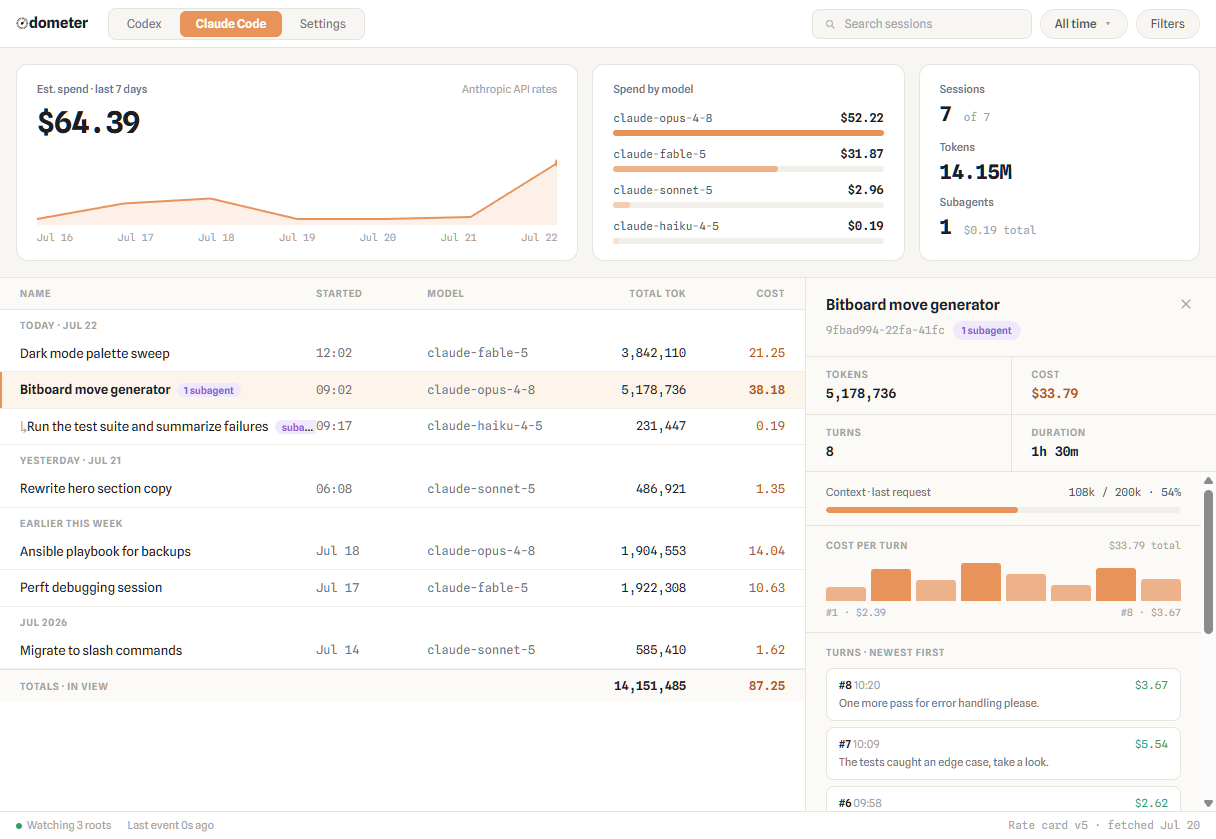
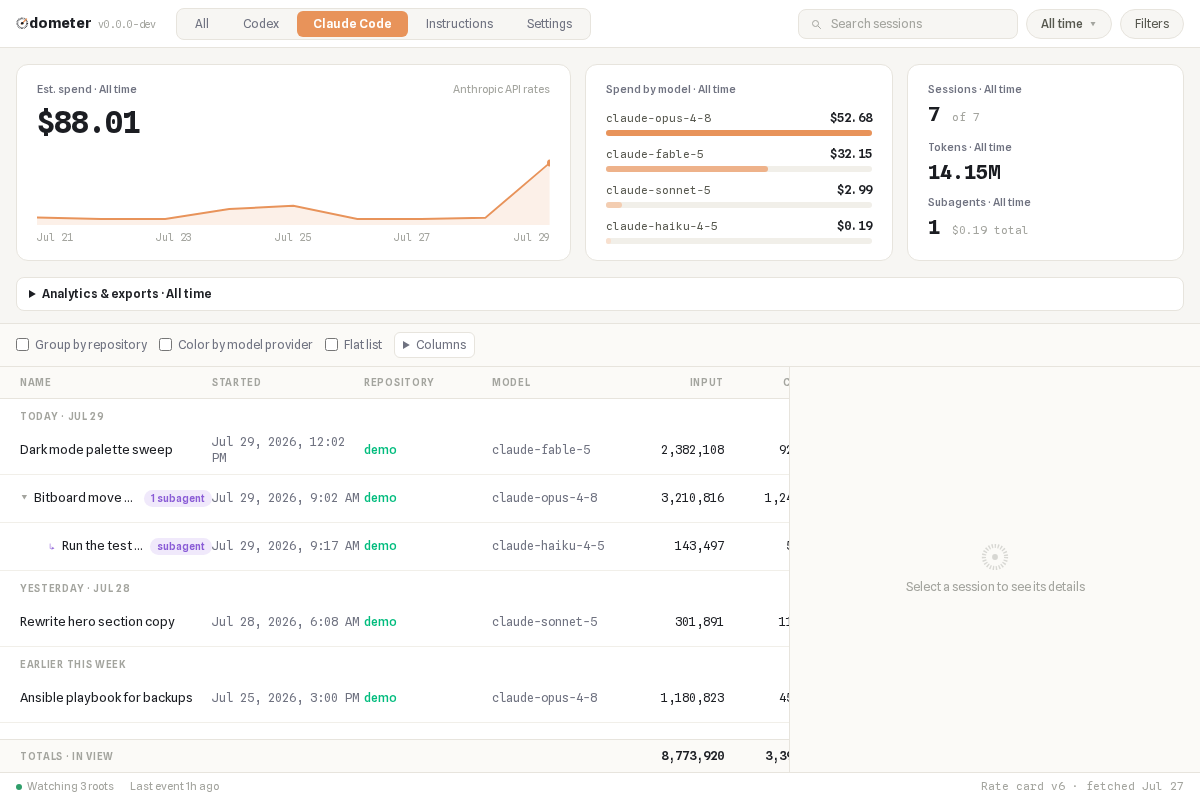
Bring the README up to date with what actually ships (#126)
The screenshots were from 22 July and predate the repository column, the
pricing provenance badges, the third provider, and the tool-attribution
panel. Regenerated from the committed visual baselines, which are the
pinned container's own output, so the docs match what CI verifies.

Corrections, each checked against the code rather than assumed:

- Cache writes ARE modeled now. The README still said the 1.25x premium
  "isn't modeled, so estimates run slightly low", which would have made a
  reader distrust correct numbers.
- Gemini CLI exists. The intro, the provider bullet, and the first-run
  paths all described two providers.
- Node's floor is 22.22.2, not 22. CI floats on the newest 22.x and so
  never warns about an older local Node.
- The release recipe named three version files; the bump script rewrites
  five, and preflight checks only three, which is why the two lockfiles
  can drift.

Additions: project analytics, quota windows and budgets, tool/MCP/shell/
language/context attribution, provider diagnostics, and the background
history migration on first launch after a schema change.

The privacy section now documents that the durable history database
retains parsed message text. That follows the decision to amend #38's
acceptance criterion rather than change the behavior -- the retention is
deliberate, so it belongs where users read it, not only in an issue.

Deliberately NOT claimed: history retention after a transcript is
[…]

diff --git a/README.md b/README.md
@@ -6,7 +6,7 @@
 [![License: MIT](https://img.shields.io/badge/license-MIT-blue.svg)](LICENSE)
 ![Platforms](https://img.shields.io/badge/platform-Windows%20%7C%20macOS%20%7C%20Linux-lightgrey)
 
-**How far have your AI agents driven?** Odometer is a local desktop dashboard for your AI coding-agent usage. It reads the session files that [Codex](https://openai.com/codex) (OpenAI's coding agent) and [Claude Code](https://claude.com/claude-code) already write to your machine and turns them into a searchable, sortable view of every session: what you asked, which models ran, how many tokens they consumed, and what that usage costs.
+**How far have your AI agents driven?** Odometer is a local desktop dashboard for your AI coding-agent usage. It reads the session files that [Codex](https://openai.com/codex) (OpenAI's coding agent), [Claude Code](https://claude.com/claude-code), and [Gemini CLI](https://github.com/google-gemini/gemini-cli) already write to your machine and turns them into a searchable, sortable view of every session: what you asked, which models ran, how many tokens they consumed, and what that usage costs.
 
 ![Codex tab with the session list, cost overview, and a session open in the detail pane](docs/screenshots/codex-tab.png)
 
@@ -14,9 +14,12 @@ Everything happens on your machine. Odometer never uploads, phones home, or send
 
 ## What you can see
 
-- **Every session, across harnesses** — Codex, Claude Code, and an All tab that keeps credits and USD estimates explicitly separated.
+- **Every session, across providers** — Codex, Claude Code, Gemini CLI, and an All tab that keeps credits and USD estimates explicitly separated.
+- **Per-project spend** — working directories resolve to a stable project identity (repository root, workspace root, provider project id, or the path itself), so linked worktrees collapse into one project while nested repos and monorepo subfolders stay distinct. Sort, group, and filter by it.
+- **Quota windows and budgets** — subscription and credit windows with reset timing, pace, and projected run-out, plus soft per-provider and per-project budgets with local alerts. Windows with unlike units are never summed together, and a projection is suppressed rather than guessed when the evidence is too thin.
+- **Where tool overhead goes** — calls attributed by origin (core, MCP, provider), MCP server, allowlisted shell-command family, language, and context source, with exportable totals.
 - **Tokens where they went** — input, cached, output, and reasoning tokens per session, per model, and per turn.
-- **What it costs** — Codex sessions show plan credits *and* an informational "what would this cost at OpenAI API rates" estimate; Claude Code sessions show Anthropic API-rate estimates. Rates live in an editable rate card.
+- **What it costs** — Codex sessions show plan credits *and* an informational "what would this cost at OpenAI API rates" estimate; Claude Code and Gemini CLI sessions show API-rate estimates in USD. Rates live in an editable rate card, and every priced figure carries its provenance: priced directly, resolved through a model alias, fallback-priced, estimated, or explicitly unpriced.
 - **Turn-by-turn detail** — click any session for its full story: prompts, replies, per-turn tokens and cost, context-window fill, and a tokens-over-time sparkline.
 - **Subagents included** — background agents spawned by your sessions appear as their own badged, filterable entries linked to their parent.
 - **Live** — sessions update in the list while your agents are still running.
@@ -25,6 +28,7 @@ Everything happens on your machine. Odometer never uploads, phones home, or send
 - **Local efficiency signals** — normalized tool metrics, deterministic task categories, prioritized optimization opportunities with turn-level evidence and next actions, configuration-change correlations, and opt-in local Git outcome scans never retain raw tool arguments or output.
 - **Tool impact comparison** — choose any observed tool provider or individual tool and compare turns where it was used with turns where it was not observed; when enough data exists, Odometer matches the baseline by harness, model, task category, and nearby time before comparing tokens and elapsed time.
 - **Optional instruction inventory** — enable a hideable Instructions tab to find `AGENTS.md` and `CLAUDE.md` files across global, observed-project, and explicitly configured roots; review nested effective chains, deterministic warning signals, sanitized Markdown previews, and linked before/after usage evidence. Discovery is read-only, cancellable, progress-visible, bounded, and off by default.
+- **Provider diagnostics** — one report per provider covering configured roots, files discovered and parsed, parse failures, cache and history health, pricing coverage, and quota-source status. Each provider resolves to `ready`, `degraded`, `unsupported`, or `not_detected` with a reason. The local view shows your exact paths; the exportable bug-report JSON redacts them by default.
 - **Opt-in performance evidence** — default-off local timings cover startup, scans/cache/parsers, analytics, exports, and UI work; logs are size-bounded and exportable as JSONL or CSV.
 - **Opt-in turn receipts** — add a reversible Codex or Claude Code `Stop` hook that shows the completed turn's tokens and estimated cost inside the harness. Codex receipts also preserve provider-reported quota precision and label per-turn changes as account-wide observations.
 - **Quick glance** — the tray menu mirrors today's tokens, Codex credits/API estimate, and Claude USD with native show, hide, settings, and quit controls.
@@ -32,6 +36,10 @@ Everything happens on your machine. Odometer never uploads, phones home, or send
 
 ![Claude Code tab with subagent sessions and per-model spend](docs/screenshots/claude-code-tab.png)
 ![Session detail pane in dark mode showing per-turn costs and the turn history](docs/screenshots/session-details.png)
+
+Dimensions a provider cannot supply say so, rather than reporting zero. Here the Gemini CLI tab shows real language and context-source totals beside an explicit "Unavailable" for MCP servers and shell command families, and flags that one model fell back to an estimated rate:
+
+![Gemini CLI tab showing tool attribution, with MCP and shell dimensions marked unavailable and language and context totals populated](docs/screenshots/tool-attribution.png)
 
 ## Install
 
@@ -53,8 +61,13 @@ If Codex or Claude Code is installed with default paths, there is nothing to con
 
 - Codex: `$CODEX_HOME` if set, otherwise `~/.codex` (`sessions/`, `archived_sessions/`, `session_index.jsonl`)
 - Claude Code: `$CLAUDE_CONFIG_DIR/projects` if set, otherwise `~/.claude/projects`
+- Gemini CLI: `~/.gemini/tmp`. Gemini CLI documents no environment override for this root, so Odometer honors none rather than inventing one. Only the JSONL session format (CLI 0.39 and later) is read; the older single-JSON-document format is skipped because it cannot be parsed incrementally without risking a partial read.
 
 Custom locations can be added under **Settings → Watched roots**.
+
+Cursor, GitHub Copilot, and OpenCode are **not** supported. Each was evaluated and rejected on evidence rather than effort: Cursor reports no real token counts in recent versions, Copilot's only source with an input/output split is an internal trace database that is not always present, and OpenCode spreads a session across many files in a shape the incremental parser cannot follow. Odometer would have to estimate, and an estimate presented as a measurement is worse than no support.
+
+On first launch after an upgrade that changes the history schema, the window opens immediately and analytics report that history is still preparing while the database migrates in the background. A large history can take a while; the app stays usable and never reports partial totals as if they were complete.
 
 The separate **Settings → Instruction inventory** section accepts project or project-container roots and lets each root scan only that folder or include subfolders. Recursive discovery skips common dependency, generated-output, and VCS directories instead of crawling every file on the machine.
 
@@ -98,7 +111,9 @@ when disabled, the ordinary watcher/UI path is unchanged and no receipt helper r
 
 ## Privacy
 
-Session files contain your prompts, the agents' replies, tool output, and local file paths. Odometer processes them entirely locally and stores nothing outside your machine: settings and rate overrides live under the OS config directory, while the scan cache and redacted configuration-event hashes live under the OS cache/data directories. Tool telemetry stores hashed target identities and byte counts, never raw arguments or output. Optional application performance tracking is off by default and stores only operation timings, success flags, and aggregate counts — never prompts, session IDs, paths, commands, tool arguments, or output. Its rotating local JSONL can be exported from Settings. Treat the session files themselves as sensitive — don't share or commit them.
+Session files contain your prompts, the agents' replies, tool output, and local file paths. Odometer processes them entirely locally and stores nothing outside your machine: settings and rate overrides live under the OS config directory, while the scan cache, the durable history database, and redacted configuration-event hashes live under the OS cache/data directories. Tool telemetry stores hashed target identities and byte counts, never raw arguments or output.
+
+**The durable history database keeps parsed message text.** Odometer stores a snapshot of each parsed session so analytics survive restarts and stay fast, and that snapshot includes the first user message and each turn's user message and last agent message — the same text that backs session names and search. It is local application data and inherits the same no-upload, no-log handling as the transcripts it was parsed from, but it is worth knowing it exists: treat that database as sensitive in the same way you treat the session files themselves. Aggregates, exports, diagnostics, and performance logs exclude prompt and reply text, raw tool arguments and output, credentials, and unrestricted paths. Optional application performance tracking is off by default and stores only operation timings, success flags, and aggregate counts — never prompts, session IDs, paths, commands, tool arguments, or output. Its rotating local JSONL can be exported from Settings. Treat the session files themselves as sensitive — don't share or commit them.
 
 When turn receipts are enabled, Odometer stores one bounded local health record per harness: the
 last run time, success state, and rendered receipt or a sanitized error category. It does not store
@@ -109,8 +124,10 @@ the hook's session ID, transcript path, prompt, or response.
 Costs are computed from token counts against a bundled, editable rate card (per one million tokens):
 
 - **Codex** usage is priced in plan credits per the OpenAI Codex rate card, with documented Fast-mode multipliers applied per event. A second column estimates the same usage at OpenAI **API** USD rates — informational if you're on a subscription, but useful for comparison.
-- **Claude Code** usage is priced at Anthropic API USD rates. Cache reads are billed at the cached-input rate; cache *writes* (1.25×) aren't modeled, so estimates run slightly low. Thinking tokens are billed as ordinary output, matching Anthropic's billing.
-- Unknown models fall back to a configurable per-harness fallback rate and are flagged in the UI. Models explicitly listed as unpriced are excluded and named instead of being assigned an unrelated fallback price.
+- **Claude Code** usage is priced at Anthropic API USD rates. Cache reads and cache *writes* are two disjoint subsets of input with their own rates — the write premium (1.25×) is now priced rather than folded into ordinary input. Thinking tokens are billed as ordinary output, matching Anthropic's billing.
+- **Gemini CLI** usage is priced at Gemini API USD rates; thinking tokens bill at the output rate. Gemini 2.5 Pro is deliberately left unpriced because its published rate depends on a prompt-size threshold this flat per-model table cannot express — it is fallback-priced and flagged rather than guessed.
+- A model with no published rate for a dimension prices that dimension at the ordinary input rate and marks the result estimated. It is never silently priced at zero, which would understate the total while still looking like a number.
+- Unknown models fall back to a configurable per-provider fallback rate and are flagged in the UI. Models explicitly listed as unpriced are excluded and named instead of being assigned an unrelated fallback price.
 
 Edit any rate under **Settings → Rate card**; your overrides persist and automatically inherit newly bundled models on upgrades.
 
@@ -122,7 +139,7 @@ Built with Tauri 2 + Rust (filesystem, parsing, IPC) and Svelte 5 + TypeScript +
 
 Visual regression coverage and baseline-update guidance lives in [docs/VISUAL_TESTING.md](docs/VISUAL_TESTING.md).
 
-Prerequisites: Node.js 22, Rust 1.95 or later, and the [Tauri 2 platform prerequisites](https://v2.tauri.app/start/prerequisites/).
+Prerequisites: Node.js 22.22.2 or later (see `engines` in `package.json` and `.nvmrc` — jsdom 30 raised the floor, and CI's floating `node-version: 22` will not warn you if your local Node is older), Rust 1.95 or later, and the [Tauri 2 platform prerequisites](https://v2.tauri.app/start/prerequisites/).
 
 ```powershell
 npm ci
@@ -142,6 +159,7 @@ npm run tauri dev
 | `npm run visual:update` | Review and intentionally update Playwright baselines (Linux only; use the pinned container elsewhere) |
 | `npm run visual:gallery` | Build an HTML gallery from current Playwright screenshots |
 | `npm run visual:docs:update` | Copy selected current images into `docs/screenshots/` (add `-- --force` to replace reviewed files) |
+| `npm run version:bump -- <major\|minor\|patch\|X.Y.Z>` | Rewrite all five version manifests together and verify they agree |
 
 The docs screenshot command is an explicit local action: it copies reviewed images from `output/playwright/current`, refuses to overwrite without `--force`, and is never run automatically in CI.
 
@@ -169,10 +187,17 @@ src/                     Svelte frontend
   lib/sessionProjection.ts Shared filter, pricing, model-comparison, and export projection
 src-tauri/
   src/                   Rust parsers, telemetry, correlation, config events, git outcomes, tray, and commands
+    history_store.rs     Durable SQLite history: facts, hour-bucket rollups, migrations
+    provider.rs          Provider registry, adapter contract, capability flags
+    project_identity.rs  Working directory to stable project identity
+    quota.rs             Quota windows, pace, budgets, alerts
+    diagnostics.rs       Per-provider health and data-quality report
+    paths.rs             Shared path normalization (Windows verbatim and UNC)
   tests/                 Parser integration tests and fixtures
   capabilities/          Tauri permissions
   rates.json             Bundled rate card
   tauri.conf.json        Desktop build/window/updater configuration
+docs/adr/                Architecture decision records (sync design gate)
 ```
 
 Generated schemas under `src-tauri/gen/schemas/` are not hand-edited. Both lockfiles stay committed.
@@ -188,7 +213,13 @@ git tag -s vX.Y.Z -m "Odometer vX.Y.Z" main  # annotated tag signed with your Gi
 git push origin vX.Y.Z                        # triggers the cross-platform build
 ```
 
-All three version fields (`package.json`, `src-tauri/Cargo.toml`, and `src-tauri/tauri.conf.json`) must already equal `X.Y.Z`; the release workflow rejects a mismatched `vX.Y.Z` tag before any platform builds start. The tagged commit must also have a successful CI run. `git tag -s` creates an annotated, cryptographically signed Git tag; this Git signature is separate from the updater artifact signature.
+Bump the version first, on a normal PR, with `npm run version:bump -- <major|minor|patch|X.Y.Z>`. It rewrites all **five** manifests together — `package.json`, `package-lock.json`, `src-tauri/Cargo.toml`, `src-tauri/Cargo.lock`, and `src-tauri/tauri.conf.json` — refuses a non-increasing version, and verifies they agree. Preflight only compares three of them (`package.json`, `Cargo.toml`, `tauri.conf.json`), so the two lockfiles can drift silently if edited by hand; that is why the script exists.
+
+All three checked version fields must already equal `X.Y.Z`; the release workflow rejects a mismatched `vX.Y.Z` tag before any platform builds start. The tagged commit must also have a successful CI run.
+
+A repository ruleset forbids updating **or deleting** tag refs. A tag pushed at the wrong commit is permanently unusable and its version number is burned, so never tag before the bump commit is on `main` with green CI.
+
+GitHub generates draft release notes from merged pull requests. Work that lands directly on `main` is invisible to that generator, so read the draft's notes and rewrite them from the actual commit range before publishing. Notes are only editable while the release is a draft. `git tag -s` creates an annotated, cryptographically signed Git tag; this Git signature is separate from the updater artifact signature.
 
 The workflow creates or validates one mutable draft release during preflight, then builds and signs macOS, Linux, and Windows bundles in parallel without allowing matrix jobs to write the GitHub release or `latest.json`. After all platform builds succeed, one publisher downloads the one-day workflow artifacts, validates and uploads the exact signed asset set, and assembles and uploads a single complete `latest.json`. A final job downloads the draft manifest and validates its Tauri field types, release notes, complete signed platform map, asset names, sizes, SHA-256 digests, release ownership, tag, and exact commit. Do not create or publish the GitHub release manually before the workflow finishes: a published release is immutable and cannot accept corrected assets. Publish only after every release job succeeds. Updater packages are minisign-signed — the workflow needs the `TAURI_SIGNING_PRIVATE_KEY` and `TAURI_SIGNING_PRIVATE_KEY_PASSWORD` secrets. The in-app updater follows the latest published release. OS code signing/notarization is not configured yet. A manual Actions run is build-only: it validates the three internal versions and bundles every platform, but never creates a tag or GitHub release.
 
